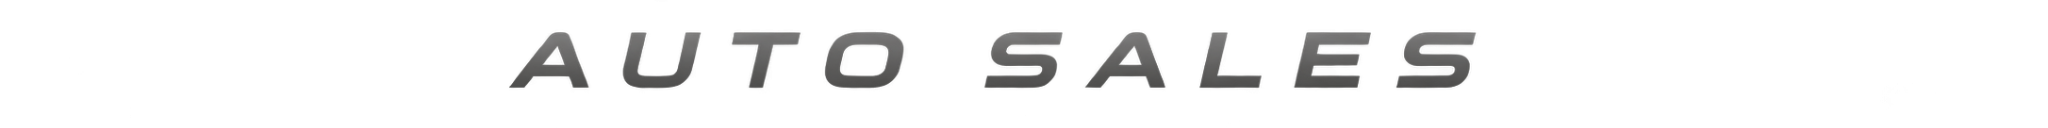
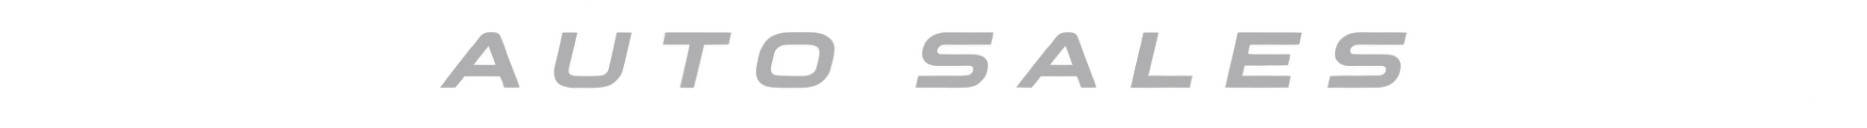
Add files via upload

Changed region(s): [[0.2175, 0.25, 0.7766, 0.6875]]

diff --git a/index.html b/index.html
@@ -5,7 +5,7 @@
   <meta name="viewport" content="width=device-width, initial-scale=1" />
   <meta name="description" content="Wurks Auto Sales — straightforward used cars in Northern Nevada with transparent out-the-door pricing." />
   <title>Wurks Auto Sales | Northern Nevada Used Cars</title>
-  <link rel="stylesheet" href="styles.css?v=7.3.3-auto-sales-submark" />
+  <link rel="stylesheet" href="styles.css?v=7.3.4-centered-silver-logo" />
   <link rel="preconnect" href="https://fonts.googleapis.com">
   <link rel="preconnect" href="https://fonts.gstatic.com" crossorigin>
   <link href="https://fonts.googleapis.com/css2?family=Roboto+Condensed:wght@400;500;600;700&display=swap" rel="stylesheet">
@@ -13,7 +13,7 @@
 <body>
   <header class="site-header">
     <a class="brand brand-logo-link" href="index.html" aria-label="Wurks Auto Sales home">
-      <span class="site-logo-stack"><img class="site-logo" src="images/wurks-auto-sales-logo.png?v=7.3.2-solid" alt="Wurks Auto Sales"><img class="site-logo-submark" src="images/wurks-auto-sales-submark.png?v=7.3.3" alt="" aria-hidden="true"></span>
+      <span class="site-logo-stack"><img class="site-logo" src="images/wurks-auto-sales-logo.png?v=7.3.2-solid" alt="Wurks Auto Sales"><img class="site-logo-submark" src="images/wurks-auto-sales-submark.png?v=7.3.4" alt="" aria-hidden="true"></span>
     </a>
     <button class="menu-toggle" aria-expanded="false" aria-controls="nav">Menu</button>
     <nav id="nav" class="nav">

diff --git a/inventory.html b/inventory.html
@@ -5,7 +5,7 @@
   <meta name="viewport" content="width=device-width, initial-scale=1" />
   <meta name="description" content="Browse current used vehicle inventory from Wurks Auto Sales in Northern Nevada." />
   <title>Inventory | Wurks Auto Sales</title>
-  <link rel="stylesheet" href="styles.css?v=7.3.3-auto-sales-submark" />
+  <link rel="stylesheet" href="styles.css?v=7.3.4-centered-silver-logo" />
   <link rel="preconnect" href="https://fonts.googleapis.com">
   <link rel="preconnect" href="https://fonts.gstatic.com" crossorigin>
   <link href="https://fonts.googleapis.com/css2?family=Roboto+Condensed:wght@400;500;600;700&display=swap" rel="stylesheet">
@@ -13,7 +13,7 @@
 <body>
   <header class="site-header">
     <a class="brand brand-logo-link" href="index.html" aria-label="Wurks Auto Sales home">
-      <span class="site-logo-stack"><img class="site-logo" src="images/wurks-auto-sales-logo.png?v=7.3.2-solid" alt="Wurks Auto Sales"><img class="site-logo-submark" src="images/wurks-auto-sales-submark.png?v=7.3.3" alt="" aria-hidden="true"></span>
+      <span class="site-logo-stack"><img class="site-logo" src="images/wurks-auto-sales-logo.png?v=7.3.2-solid" alt="Wurks Auto Sales"><img class="site-logo-submark" src="images/wurks-auto-sales-submark.png?v=7.3.4" alt="" aria-hidden="true"></span>
     </a>
     <button class="menu-toggle" aria-expanded="false" aria-controls="nav">Menu</button>
     <nav id="nav" class="nav">

diff --git a/vehicle.html b/vehicle.html
@@ -8,12 +8,12 @@
   <link rel="preconnect" href="https://fonts.googleapis.com">
   <link rel="preconnect" href="https://fonts.gstatic.com" crossorigin>
   <link href="https://fonts.googleapis.com/css2?family=Roboto+Condensed:wght@400;500;600;700&display=swap" rel="stylesheet">
-  <link rel="stylesheet" href="styles.css?v=7.3.3-auto-sales-submark" />
+  <link rel="stylesheet" href="styles.css?v=7.3.4-centered-silver-logo" />
 </head>
 <body>
   <header class="site-header">
     <a class="brand brand-logo-link" href="index.html" aria-label="Wurks Auto Sales home">
-      <span class="site-logo-stack"><img class="site-logo" src="images/wurks-auto-sales-logo.png?v=7.3.2-solid" alt="Wurks Auto Sales"><img class="site-logo-submark" src="images/wurks-auto-sales-submark.png?v=7.3.3" alt="" aria-hidden="true"></span>
+      <span class="site-logo-stack"><img class="site-logo" src="images/wurks-auto-sales-logo.png?v=7.3.2-solid" alt="Wurks Auto Sales"><img class="site-logo-submark" src="images/wurks-auto-sales-submark.png?v=7.3.4" alt="" aria-hidden="true"></span>
     </a>
     <button class="menu-toggle" aria-expanded="false" aria-controls="nav">Menu</button>
     <nav id="nav" class="nav">

diff --git a/styles.css b/styles.css
@@ -4570,3 +4570,36 @@ footer strong{color:#fff}
     margin-top: -13px;
   }
 }
+
+
+/* v7.3.4 — visually center AUTO SALES under WURKS and match exact solid silver */
+.site-logo-stack {
+  align-items: center !important;
+}
+
+.site-logo-submark {
+  display: block !important;
+  align-self: center !important;
+  width: 67% !important;
+  max-width: 190px !important;
+  height: auto !important;
+  margin: -15px auto 0 !important;
+  object-fit: contain !important;
+  object-position: center center !important;
+}
+
+@media (max-width: 980px) {
+  .site-logo-submark {
+    width: 67% !important;
+    max-width: 165px !important;
+    margin-top: -13px !important;
+  }
+}
+
+@media (max-width: 760px) {
+  .site-logo-submark {
+    width: 67% !important;
+    max-width: 145px !important;
+    margin-top: -11px !important;
+  }
+}
